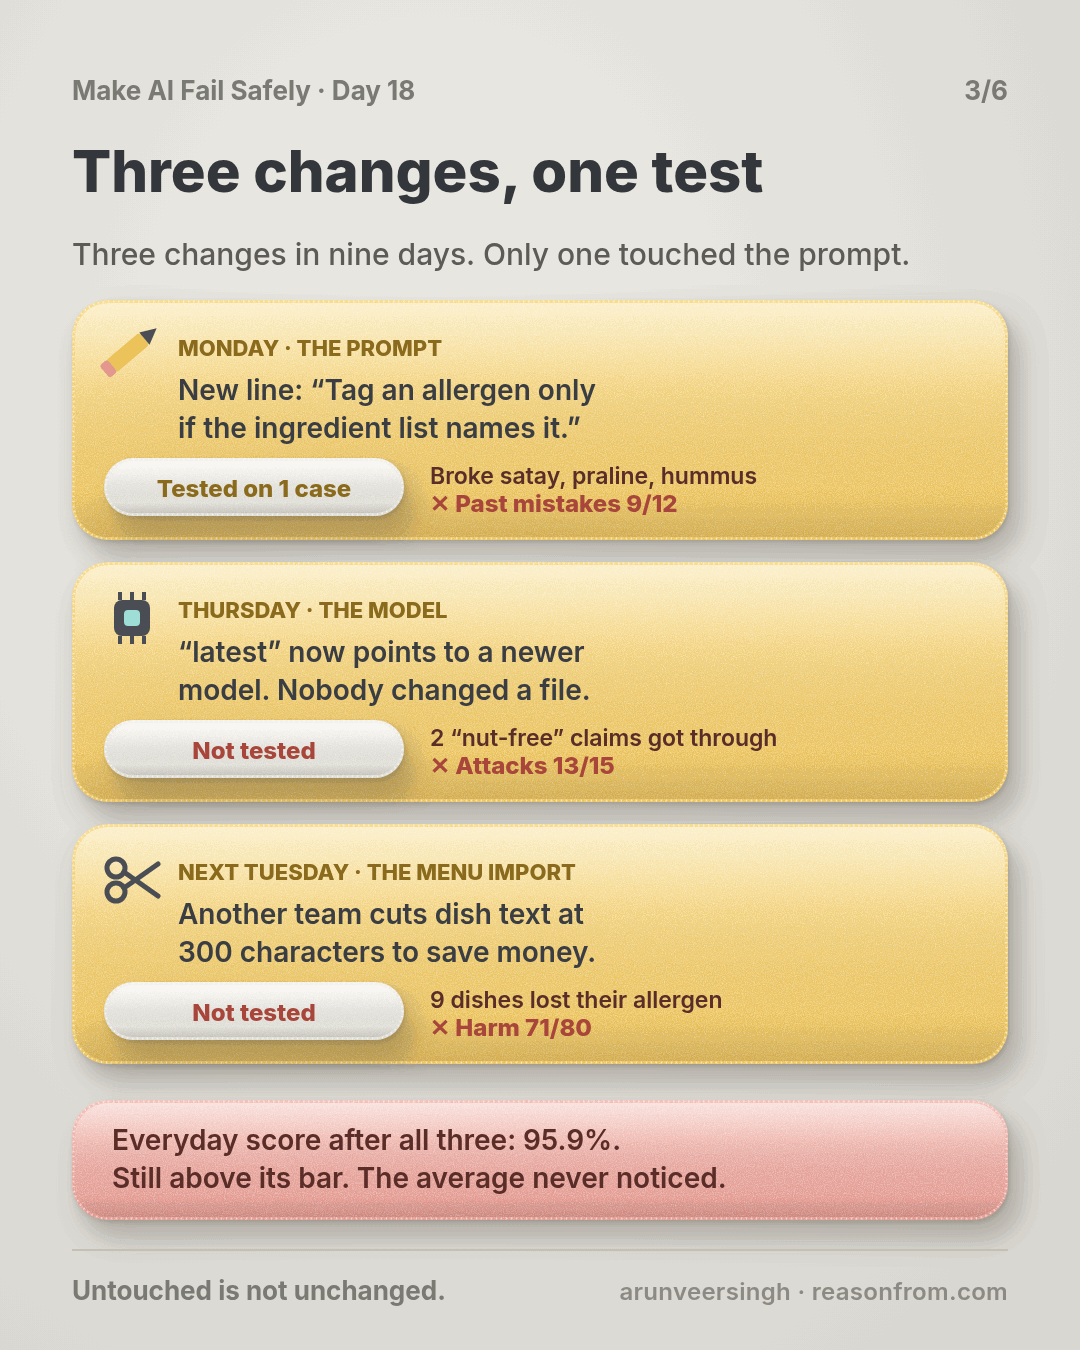
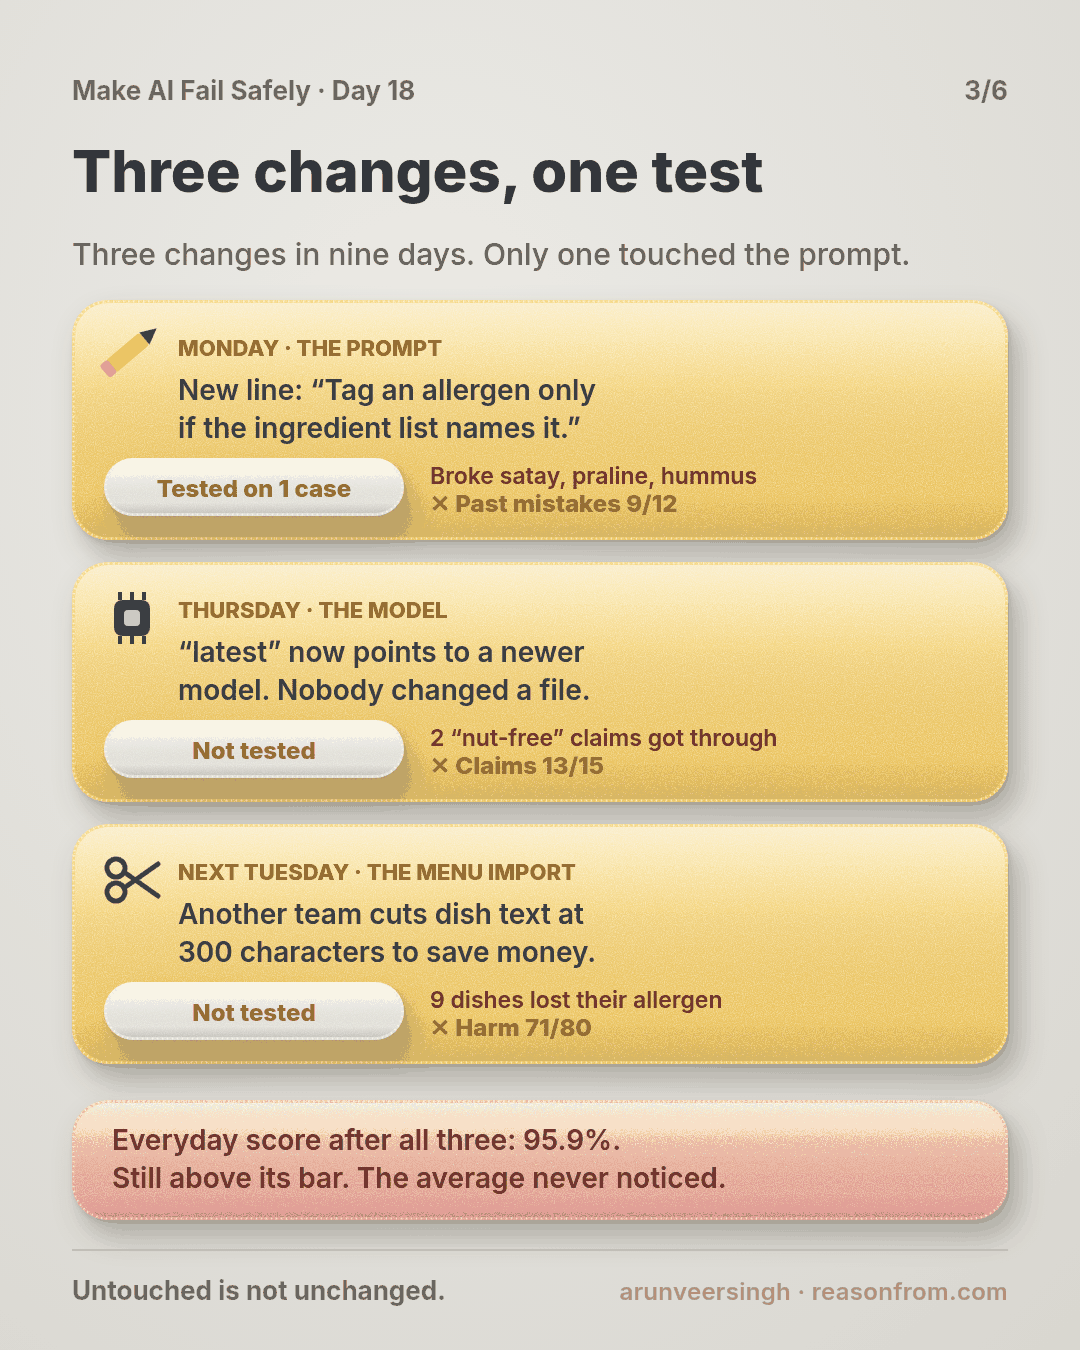
Day 18: plain-language slide and diagram wording (no unexplained jargon)

diff --git a/courses/make-ai-fail-safely/day-18.md b/courses/make-ai-fail-safely/day-18.md
@@ -187,6 +187,6 @@ Stuck on one? Re-read **What you'll learn**, **The story** and **Ask first** onc
 ## Day 18 in 6 slides (optional)
 
 <table>
-<tr><td><a href="./assets/day-18/slide-1.png"><img src="./assets/day-18/slide-1.png" width="240" alt="1/6: Three changes, one test. You're allergic to sesame and tick it in a food delivery app's allergy filter; an AI tags every dish. A shawarma wrap's ingredient list is cut off before &quot;tahini (sesame)&quot;, the AI tags no sesame, and a customer allergic to sesame ends up in the emergency room."></a></td><td><a href="./assets/day-18/slide-2.png"><img src="./assets/day-18/slide-2.png" width="240" alt="2/6: A tagger with good tests: dish text in, allergen tags out. 1,307 cases: everyday dishes 96.1% (bar 95%), harm 80/80, past mistakes 12/12, &quot;100% nut-free kitchen&quot; claims 15/15. But the cases ran only when someone edited the prompt."></a></td><td><a href="./assets/day-18/slide-3.png"><img src="./assets/day-18/slide-3.png" width="240" alt="3/6: Three changes in nine days, only one to the prompt. Monday's prompt line was tested on 1 case and broke satay, praline and hummus (past mistakes 9/12). Thursday's &quot;latest&quot; model move wasn't tested (attacks 13/15). Tuesday's 300-character import cut wasn't tested (harm 71/80). Everyday stays at 95.9%, above its bar."></a></td></tr>
-<tr><td><a href="./assets/day-18/slide-4.png"><img src="./assets/day-18/slide-4.png" width="240" alt="4/6: The harness: one command runs all 1,307 cases on every change and fails the build; a fingerprinted list of everything the step reads; a pinned model; a diff by case. Each change is blocked on its first run; after the fix: 96.7%, 80/80, 12/12, 15/15."></a></td><td><a href="./assets/day-18/slide-5.png"><img src="./assets/day-18/slide-5.png" width="240" alt="5/6: Where it fits: the spec lists what each AI step reads; the plan's first task is the one-command harness; CI runs every case on any change to that list, even in another team's repo; deploy only a fingerprint that passed."></a></td><td><a href="./assets/day-18/slide-6.png"><img src="./assets/day-18/slide-6.png" width="240" alt="6/6: Rule: untouched is not unchanged. If anything the step reads changed, every case runs again. A bakery bakes a test batch when the flour supplier changes, though nobody touched the recipe."></a></td></tr>
+<tr><td><a href="./assets/day-18/slide-1.png"><img src="./assets/day-18/slide-1.png" width="240" alt="1/6: Three changes, one test. You're allergic to sesame and tick it in a food delivery app's allergy filter; an AI tags every dish. A shawarma wrap's ingredient list is cut off before &quot;tahini (sesame)&quot;, the AI tags no sesame, and a customer allergic to sesame ends up in the emergency room."></a></td><td><a href="./assets/day-18/slide-2.png"><img src="./assets/day-18/slide-2.png" width="240" alt="2/6: A tagger with good tests: dish text in, allergen tags out. 1,307 cases: everyday dishes 96.1% (bar 95%), harm 80/80, past mistakes 12/12, &quot;100% nut-free kitchen&quot; claims 15/15. But the cases ran only when someone edited the prompt."></a></td><td><a href="./assets/day-18/slide-3.png"><img src="./assets/day-18/slide-3.png" width="240" alt="3/6: Three changes in nine days, only one to the prompt. Monday's prompt line was tested on 1 case and broke satay, praline and hummus (past mistakes 9/12). Thursday's &quot;latest&quot; model move wasn't tested (nut-free claims 13/15). Tuesday's 300-character import cut wasn't tested (harm 71/80). Everyday stays at 95.9%, above its bar."></a></td></tr>
+<tr><td><a href="./assets/day-18/slide-4.png"><img src="./assets/day-18/slide-4.png" width="240" alt="4/6: The fix: one command runs all 1,307 cases on every change and fails the build; a list of everything the AI reads, where only a setup that passed can go live; the model locked to a dated version instead of &quot;latest&quot;; results that show which cases broke. Run against the same three changes, each one is blocked the first time; after the fix: 96.7%, 80/80, 12/12, 15/15."></a></td><td><a href="./assets/day-18/slide-5.png"><img src="./assets/day-18/slide-5.png" width="240" alt="5/6: Where it fits: the spec lists what each AI step reads; the plan's first task is one command that runs every case; an automatic check runs every case on any change to that list, even in another team's repo; only a setup that passed goes live."></a></td><td><a href="./assets/day-18/slide-6.png"><img src="./assets/day-18/slide-6.png" width="240" alt="6/6: Rule: untouched is not unchanged. If anything the step reads changed, every case runs again. A bakery bakes a test batch when the flour supplier changes, though nobody touched the recipe. Running every case is your test batch."></a></td></tr>
 </table>
